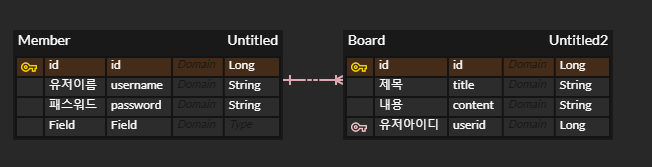
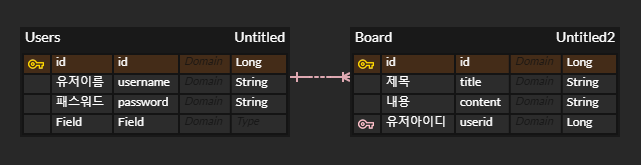
게시글 작성 기능 추가 / Member->User로 변경

diff --git a/src/main/java/com/sparta/board/service/BoardService.java b/src/main/java/com/sparta/board/service/BoardService.java
@@ -1,13 +1,19 @@
 package com.sparta.board.service;
 
+import com.sparta.board.dto.BoardAddResponseDto;
 import com.sparta.board.dto.BoardResponseDto;
 import com.sparta.board.entity.Board;
+import com.sparta.board.entity.Users;
+import com.sparta.board.jwt.JwtUtil;
 import com.sparta.board.repository.BoardRepository;
 import com.sparta.board.dto.BoardRequestDto;
+import com.sparta.board.repository.UserRepository;
+import io.jsonwebtoken.Claims;
 import lombok.RequiredArgsConstructor;
 import org.springframework.stereotype.Service;
 import org.springframework.transaction.annotation.Transactional;
 
+import javax.servlet.http.HttpServletRequest;
 import java.util.List;
 import java.util.stream.Collectors;
 
@@ -16,6 +22,9 @@ import java.util.stream.Collectors;
 public class BoardService {
 
     private final BoardRepository boardRepository;
+    private final UserRepository userRepository;
+
+    private final JwtUtil jwtUtil;
 
     @Transactional(readOnly = true)
     public List<BoardResponseDto> getBoard(){ // BoardResponseDto형식의 리스트로 리턴
@@ -31,13 +40,41 @@ public class BoardService {
 
         return new BoardResponseDto(board); // Board형으로 받은 값을 BoardResponseDto형으로 변환
     }
+
+
     @Transactional
-    public Board addBoard(BoardRequestDto boardRequestDto) {
-        Board board = new Board(boardRequestDto);
+    public BoardAddResponseDto addBoard(BoardRequestDto boardRequestDto, HttpServletRequest request) {
 
-        boardRepository.save(board);
+        String token = jwtUtil.resolveToken(request);
+        Claims claims;
+        if (token != null) {
+            if (jwtUtil.validateToken(token)) {
+                // 토큰에서 사용자 정보 가져오기
+                claims = jwtUtil.getUserInfoFromToken(token);
+            } else {
+                throw new IllegalArgumentException("Token Error");
+            }
 
-        return board;
+            // 토큰에서 가져온 사용자 정보를 사용하여 DB 조회
+            Users users = userRepository.findByUsername(claims.getSubject()).orElseThrow(
+                    () -> new IllegalArgumentException("사용자가 존재하지 않습니다.")
+            );
+
+            // 요청받은 DTO 로 DB에 저장할 객체 만들기
+            Board board = boardRepository.saveAndFlush(new Board(boardRequestDto, users.getUsername()));
+
+//            return new ProductResponseDto(product);
+            return new BoardAddResponseDto(board);
+
+        } else {
+            return null;
+        }
+
+//        Board board = new Board(boardRequestDto);
+//
+//        boardRepository.save(board);
+//
+//        return board;
 
     }
     @Transactional

diff --git a/src/main/java/com/sparta/board/service/UserService.java b/src/main/java/com/sparta/board/service/UserService.java
@@ -1,0 +1,55 @@
+package com.sparta.board.service;
+
+
+import com.sparta.board.dto.UserRequestDto;
+import com.sparta.board.dto.UserResponseDto;
+import com.sparta.board.entity.Users;
+import com.sparta.board.jwt.JwtUtil;
+import com.sparta.board.repository.UserRepository;
+import lombok.RequiredArgsConstructor;
+import org.springframework.http.HttpStatus;
+import org.springframework.http.ResponseEntity;
+import org.springframework.stereotype.Service;
+import org.springframework.transaction.annotation.Transactional;
+
+import javax.servlet.http.HttpServletResponse;
+import java.util.Optional;
+
+@Service
+@RequiredArgsConstructor
+public class UserService {
+
+    private final UserRepository userRepository;
+    private final JwtUtil jwtUtil;
+
+
+    @Transactional
+    public ResponseEntity<Object> addMember(UserRequestDto userRequestDto) {
+        Users users = new Users(userRequestDto);
+        Optional<Users> rst = userRepository.findByUsername(userRequestDto.getUsername());
+
+        if (rst.isPresent()){
+            throw new IllegalArgumentException("중복된 사용자가 존재합니다.");
+        }
+        userRepository.save(users);
+        return ResponseEntity.status(HttpStatus.OK).body(new UserResponseDto("회원가입 성공",HttpStatus.OK.value()));
+
+    }
+
+    @Transactional(readOnly = true)
+    public ResponseEntity<Object> login(UserRequestDto userRequestDto, HttpServletResponse response) {
+
+        String username = userRequestDto.getUsername();
+        String password = userRequestDto.getPassword();
+
+        Users users = userRepository.findByUsername(username).orElseThrow(
+                () -> new IllegalArgumentException("등록된 사용자가 없습니다.")
+        );
+        if(!users.getPassword().equals(password)){
+            throw  new IllegalArgumentException("비밀번호가 일치하지 않습니다.");
+        }
+        response.addHeader(JwtUtil.AUTHORIZATION_HEADER, jwtUtil.createToken(users.getUsername()));
+        return ResponseEntity.status(HttpStatus.OK).body(new UserResponseDto("로그인 성공",HttpStatus.OK.value()));
+    }
+
+}

diff --git a/src/main/java/com/sparta/board/controller/UserController.java b/src/main/java/com/sparta/board/controller/UserController.java
@@ -1,0 +1,40 @@
+package com.sparta.board.controller;
+
+
+import com.sparta.board.dto.UserRequestDto;
+import com.sparta.board.service.UserService;
+import lombok.RequiredArgsConstructor;
+import org.springframework.http.ResponseEntity;
+import org.springframework.validation.BindingResult;
+import org.springframework.web.bind.annotation.*;
+
+import javax.servlet.http.HttpServletResponse;
+import javax.validation.Valid;
+
+@RestController
+@RequiredArgsConstructor
+@RequestMapping("/api/auth")
+public class UserController {
+
+    private final UserService userService;
+
+    @PostMapping("/signup")
+    public ResponseEntity<Object> userJoin(@RequestBody @Valid UserRequestDto userRequestDto, BindingResult bindingResult) { //BindingResult : @Valid 실패시 에러를 담음
+        if (bindingResult.hasErrors()) {
+            throw new IllegalArgumentException("형식에 맞지않습니다");
+        }
+
+        return userService.addMember(userRequestDto);
+    }
+
+    @ResponseBody
+    @PostMapping("/login")
+    public ResponseEntity<Object> userLogin(@RequestBody UserRequestDto userRequestDto, HttpServletResponse response){
+
+
+        return userService.login(userRequestDto, response);
+
+    }
+
+
+}

diff --git a/src/main/java/com/sparta/board/controller/BoardController.java b/src/main/java/com/sparta/board/controller/BoardController.java
@@ -1,5 +1,6 @@
 package com.sparta.board.controller;
 
+import com.sparta.board.dto.BoardAddResponseDto;
 import com.sparta.board.dto.BoardResponseDto;
 import com.sparta.board.entity.Board;
 import com.sparta.board.dto.BoardRequestDto;
@@ -7,6 +8,7 @@ import com.sparta.board.service.BoardService;
 import lombok.RequiredArgsConstructor;
 import org.springframework.web.bind.annotation.*;
 
+import javax.servlet.http.HttpServletRequest;
 import java.util.Arrays;
 import java.util.List;
 
@@ -16,9 +18,9 @@ public class BoardController {
 
     private final BoardService boardService;
     @PostMapping("/api/post")
-    public Board addBoard(@RequestBody BoardRequestDto boardRequestDto){
+    public BoardAddResponseDto addBoard(@RequestBody BoardRequestDto boardRequestDto, HttpServletRequest request){
 
-        return boardService.addBoard(boardRequestDto);
+        return boardService.addBoard(boardRequestDto,request);
 
     }
 

diff --git a/src/main/java/com/sparta/board/entity/Users.java b/src/main/java/com/sparta/board/entity/Users.java
@@ -1,6 +1,6 @@
 package com.sparta.board.entity;
 
-import com.sparta.board.dto.MemberRequestDto;
+import com.sparta.board.dto.UserRequestDto;
 import lombok.Getter;
 import lombok.NoArgsConstructor;
 
@@ -11,10 +11,10 @@ import java.util.List;
 @Entity
 @Getter
 @NoArgsConstructor
-public class Member {
+public class Users {
 
     @Id
-    @GeneratedValue(strategy = GenerationType.AUTO)
+    @GeneratedValue(strategy = GenerationType.IDENTITY)
     private Long id;
 
     @Column(nullable = false)
@@ -27,9 +27,9 @@ public class Member {
     List<Board> boards = new ArrayList<>();
 
 
-    public Member(MemberRequestDto memberRequestDto) {
-        this.username = memberRequestDto.getUsername();
-        this.password = memberRequestDto.getPassword();
+    public Users(UserRequestDto userRequestDto) {
+        this.username = userRequestDto.getUsername();
+        this.password = userRequestDto.getPassword();
     }
 
 

diff --git a/src/main/java/com/sparta/board/entity/Board.java b/src/main/java/com/sparta/board/entity/Board.java
@@ -13,7 +13,7 @@ import javax.persistence.*;
 public class Board extends Timestamped{
 
     @Id
-    @GeneratedValue(strategy = GenerationType.AUTO)
+    @GeneratedValue(strategy = GenerationType.IDENTITY)
     private Long id;
 
     @Column(nullable = false)
@@ -28,11 +28,12 @@ public class Board extends Timestamped{
 
 
 
-    public Board(BoardRequestDto boardRequestDto) {
+
+    public Board(BoardRequestDto boardRequestDto,String memberName) {
         this.title = boardRequestDto.getTitle();
-        this.userName = boardRequestDto.getUserName();
         this.content = boardRequestDto.getContent();
         this.password = boardRequestDto.getPassword();
+        this.userName = memberName;
     }
 
     public void update(BoardRequestDto boardRequestDto) {

diff --git a/src/main/java/com/sparta/board/dto/BoardAddResponseDto.java b/src/main/java/com/sparta/board/dto/BoardAddResponseDto.java
@@ -1,0 +1,26 @@
+package com.sparta.board.dto;
+
+import com.sparta.board.entity.Board;
+import lombok.Getter;
+
+import java.time.LocalDateTime;
+
+@Getter
+public class BoardAddResponseDto {
+    private Long id ;
+    private String title;
+    private String userName;
+    private String content;
+
+    private LocalDateTime createdAt;
+    private LocalDateTime modifiedAt;
+
+    public BoardAddResponseDto(Board board) {
+        this.id = board.getId();
+        this.title = board.getTitle();
+        this.content = board.getContent();
+        this.userName = board.getUserName();
+        this.createdAt = board.getCreatedAt();
+        this.modifiedAt = board.getModifiedAt();
+    }
+}

diff --git a/src/main/java/com/sparta/board/dto/UserResponseDto.java b/src/main/java/com/sparta/board/dto/UserResponseDto.java
@@ -1,18 +1,16 @@
 package com.sparta.board.dto;
 
-import com.sparta.board.entity.Member;
 import lombok.Getter;
-import org.springframework.http.HttpStatus;
 
 @Getter
-public class MemberResponseDto {
+public class UserResponseDto {
 
 
     private String msg ;
     private int statusCode;
 
 
-    public MemberResponseDto(String msg, int statusCode) {
+    public UserResponseDto(String msg, int statusCode) {
         this.msg = msg;
         this.statusCode =  statusCode;
 

diff --git a/src/main/java/com/sparta/board/dto/UserRequestDto.java b/src/main/java/com/sparta/board/dto/UserRequestDto.java
@@ -2,7 +2,6 @@ package com.sparta.board.dto;
 
 
 import lombok.Getter;
-import lombok.NoArgsConstructor;
 
 import javax.validation.constraints.NotBlank;
 import javax.validation.constraints.Pattern;
@@ -10,7 +9,7 @@ import javax.validation.constraints.Size;
 
 @Getter
 
-public class MemberRequestDto {
+public class UserRequestDto {
 
     @NotBlank
     @Size(min = 4, max = 10)

diff --git a/src/main/java/com/sparta/board/repository/UserRepository.java b/src/main/java/com/sparta/board/repository/UserRepository.java
@@ -1,0 +1,12 @@
+package com.sparta.board.repository;
+
+import com.sparta.board.entity.Users;
+import org.springframework.data.jpa.repository.JpaRepository;
+
+import java.util.Optional;
+
+public interface UserRepository extends JpaRepository<Users,Long> {
+
+    Optional<Users> findByUsername(String username);
+
+}
